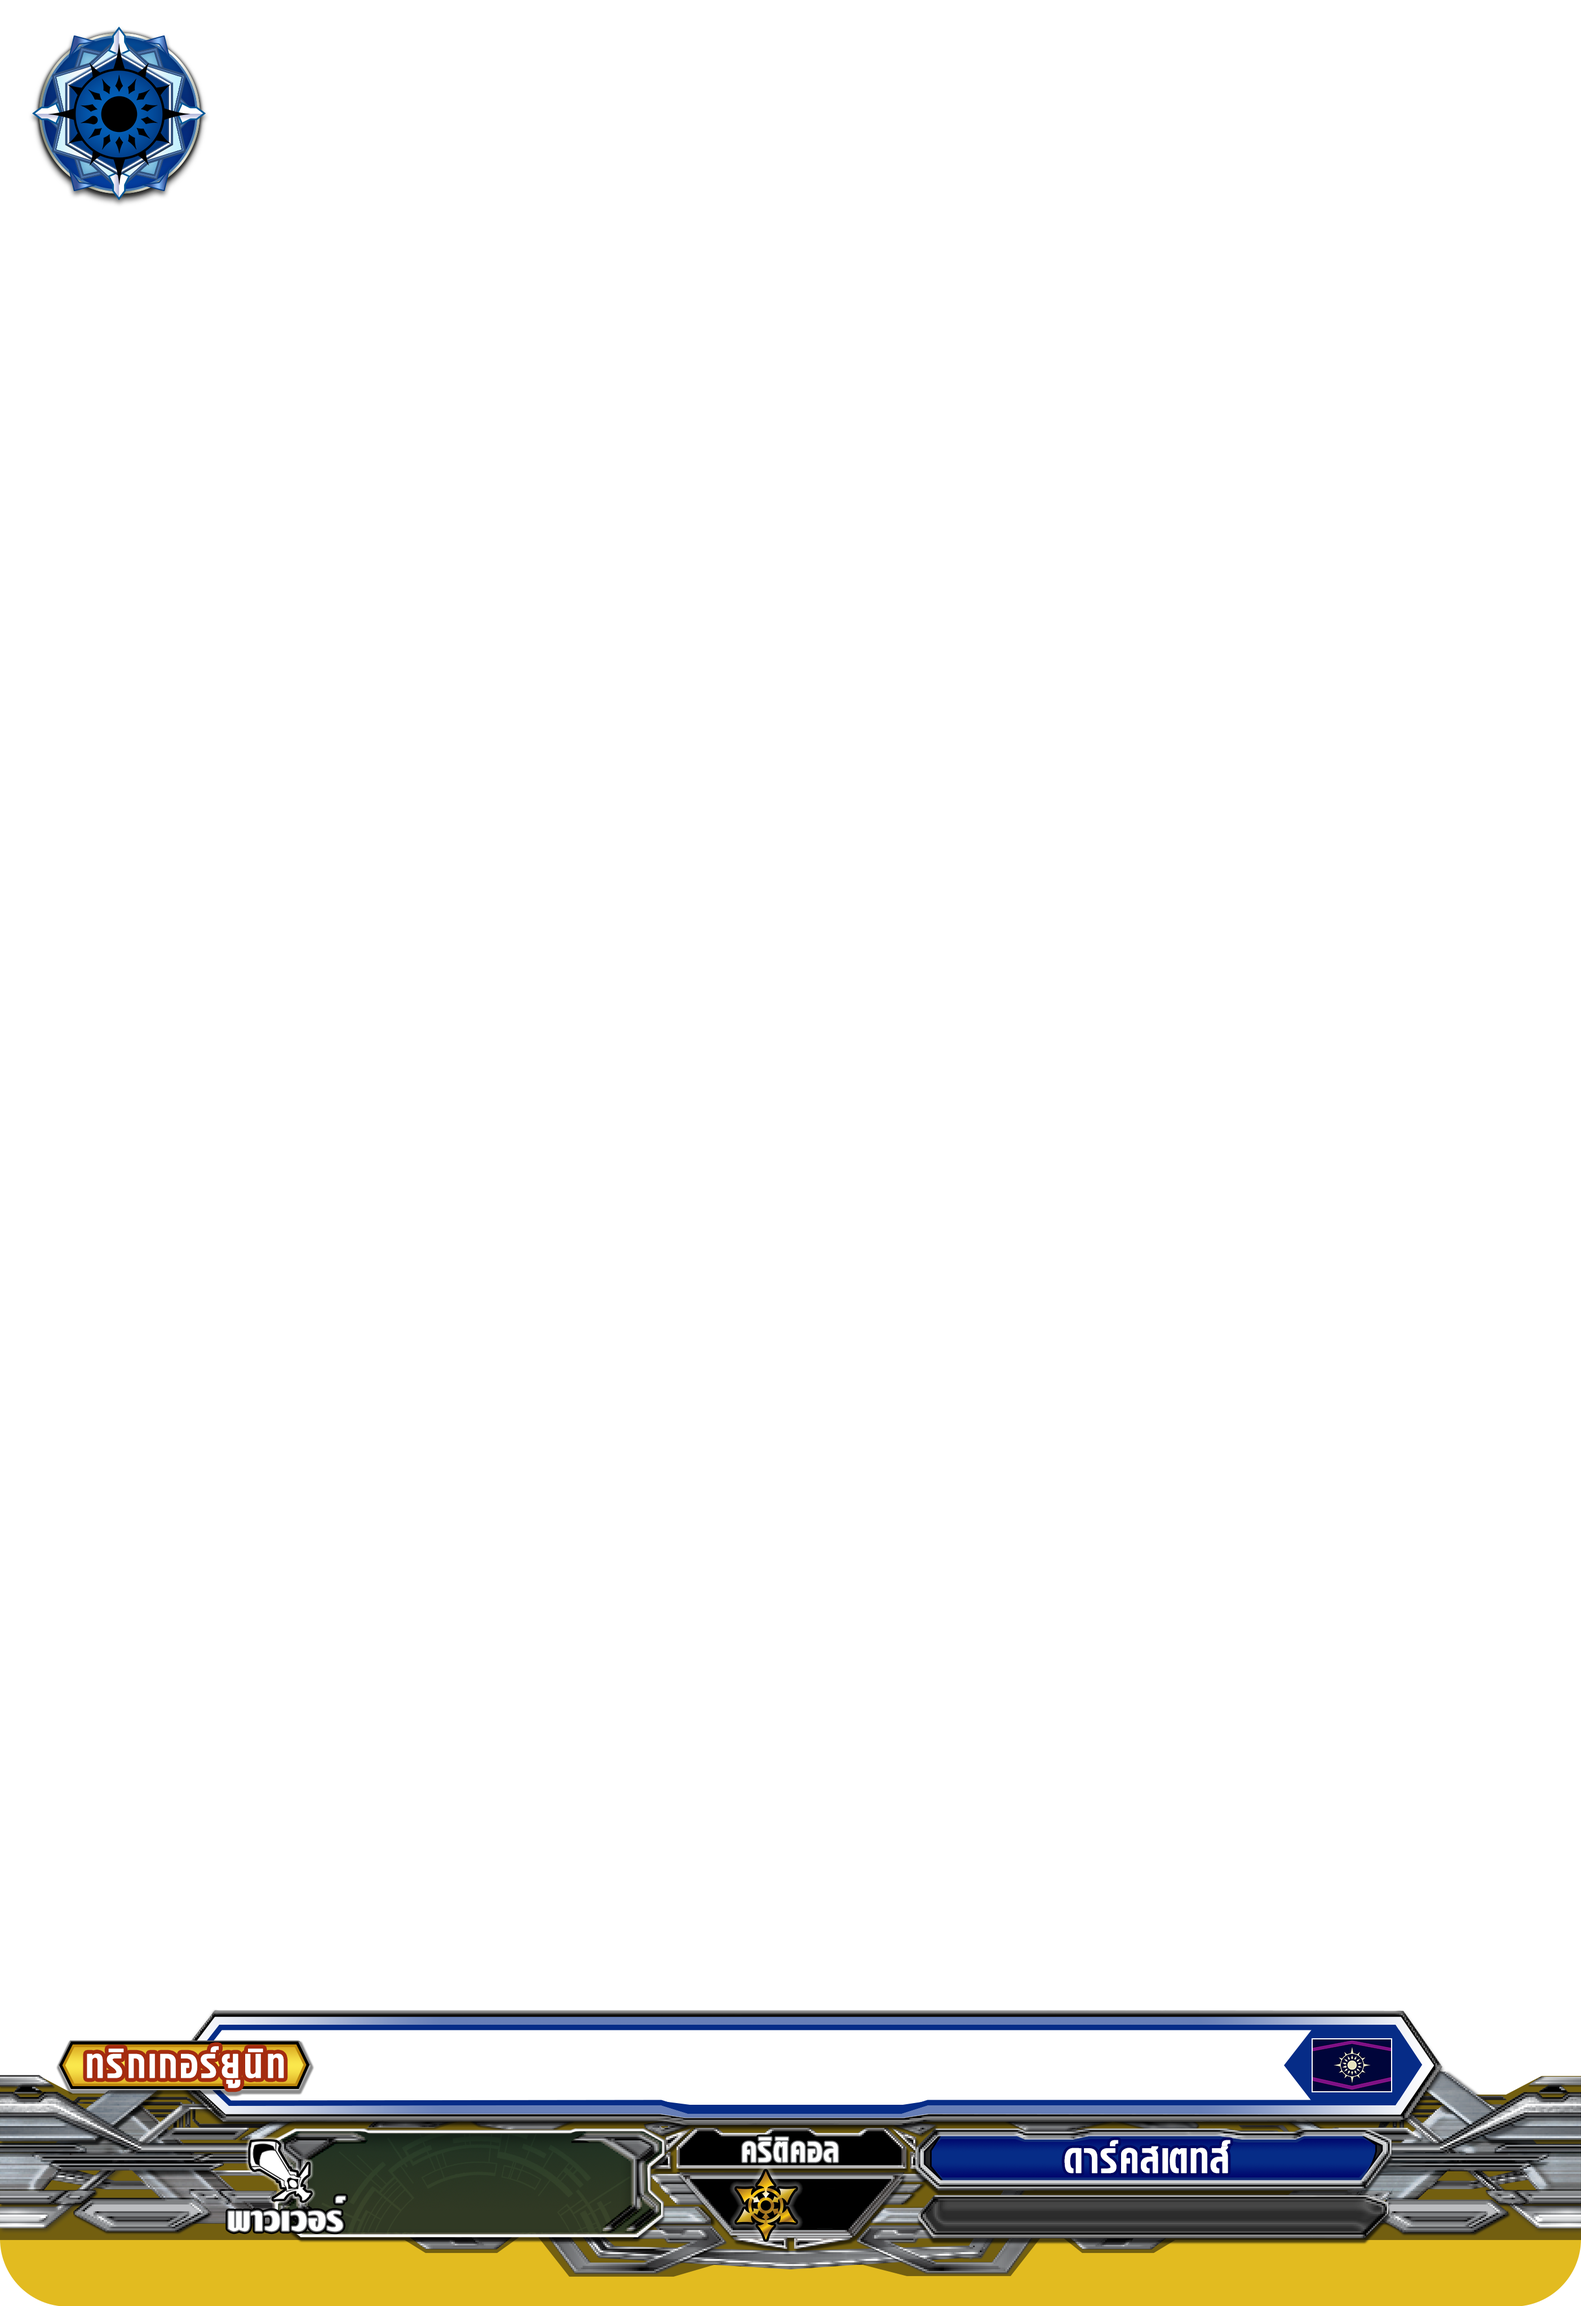
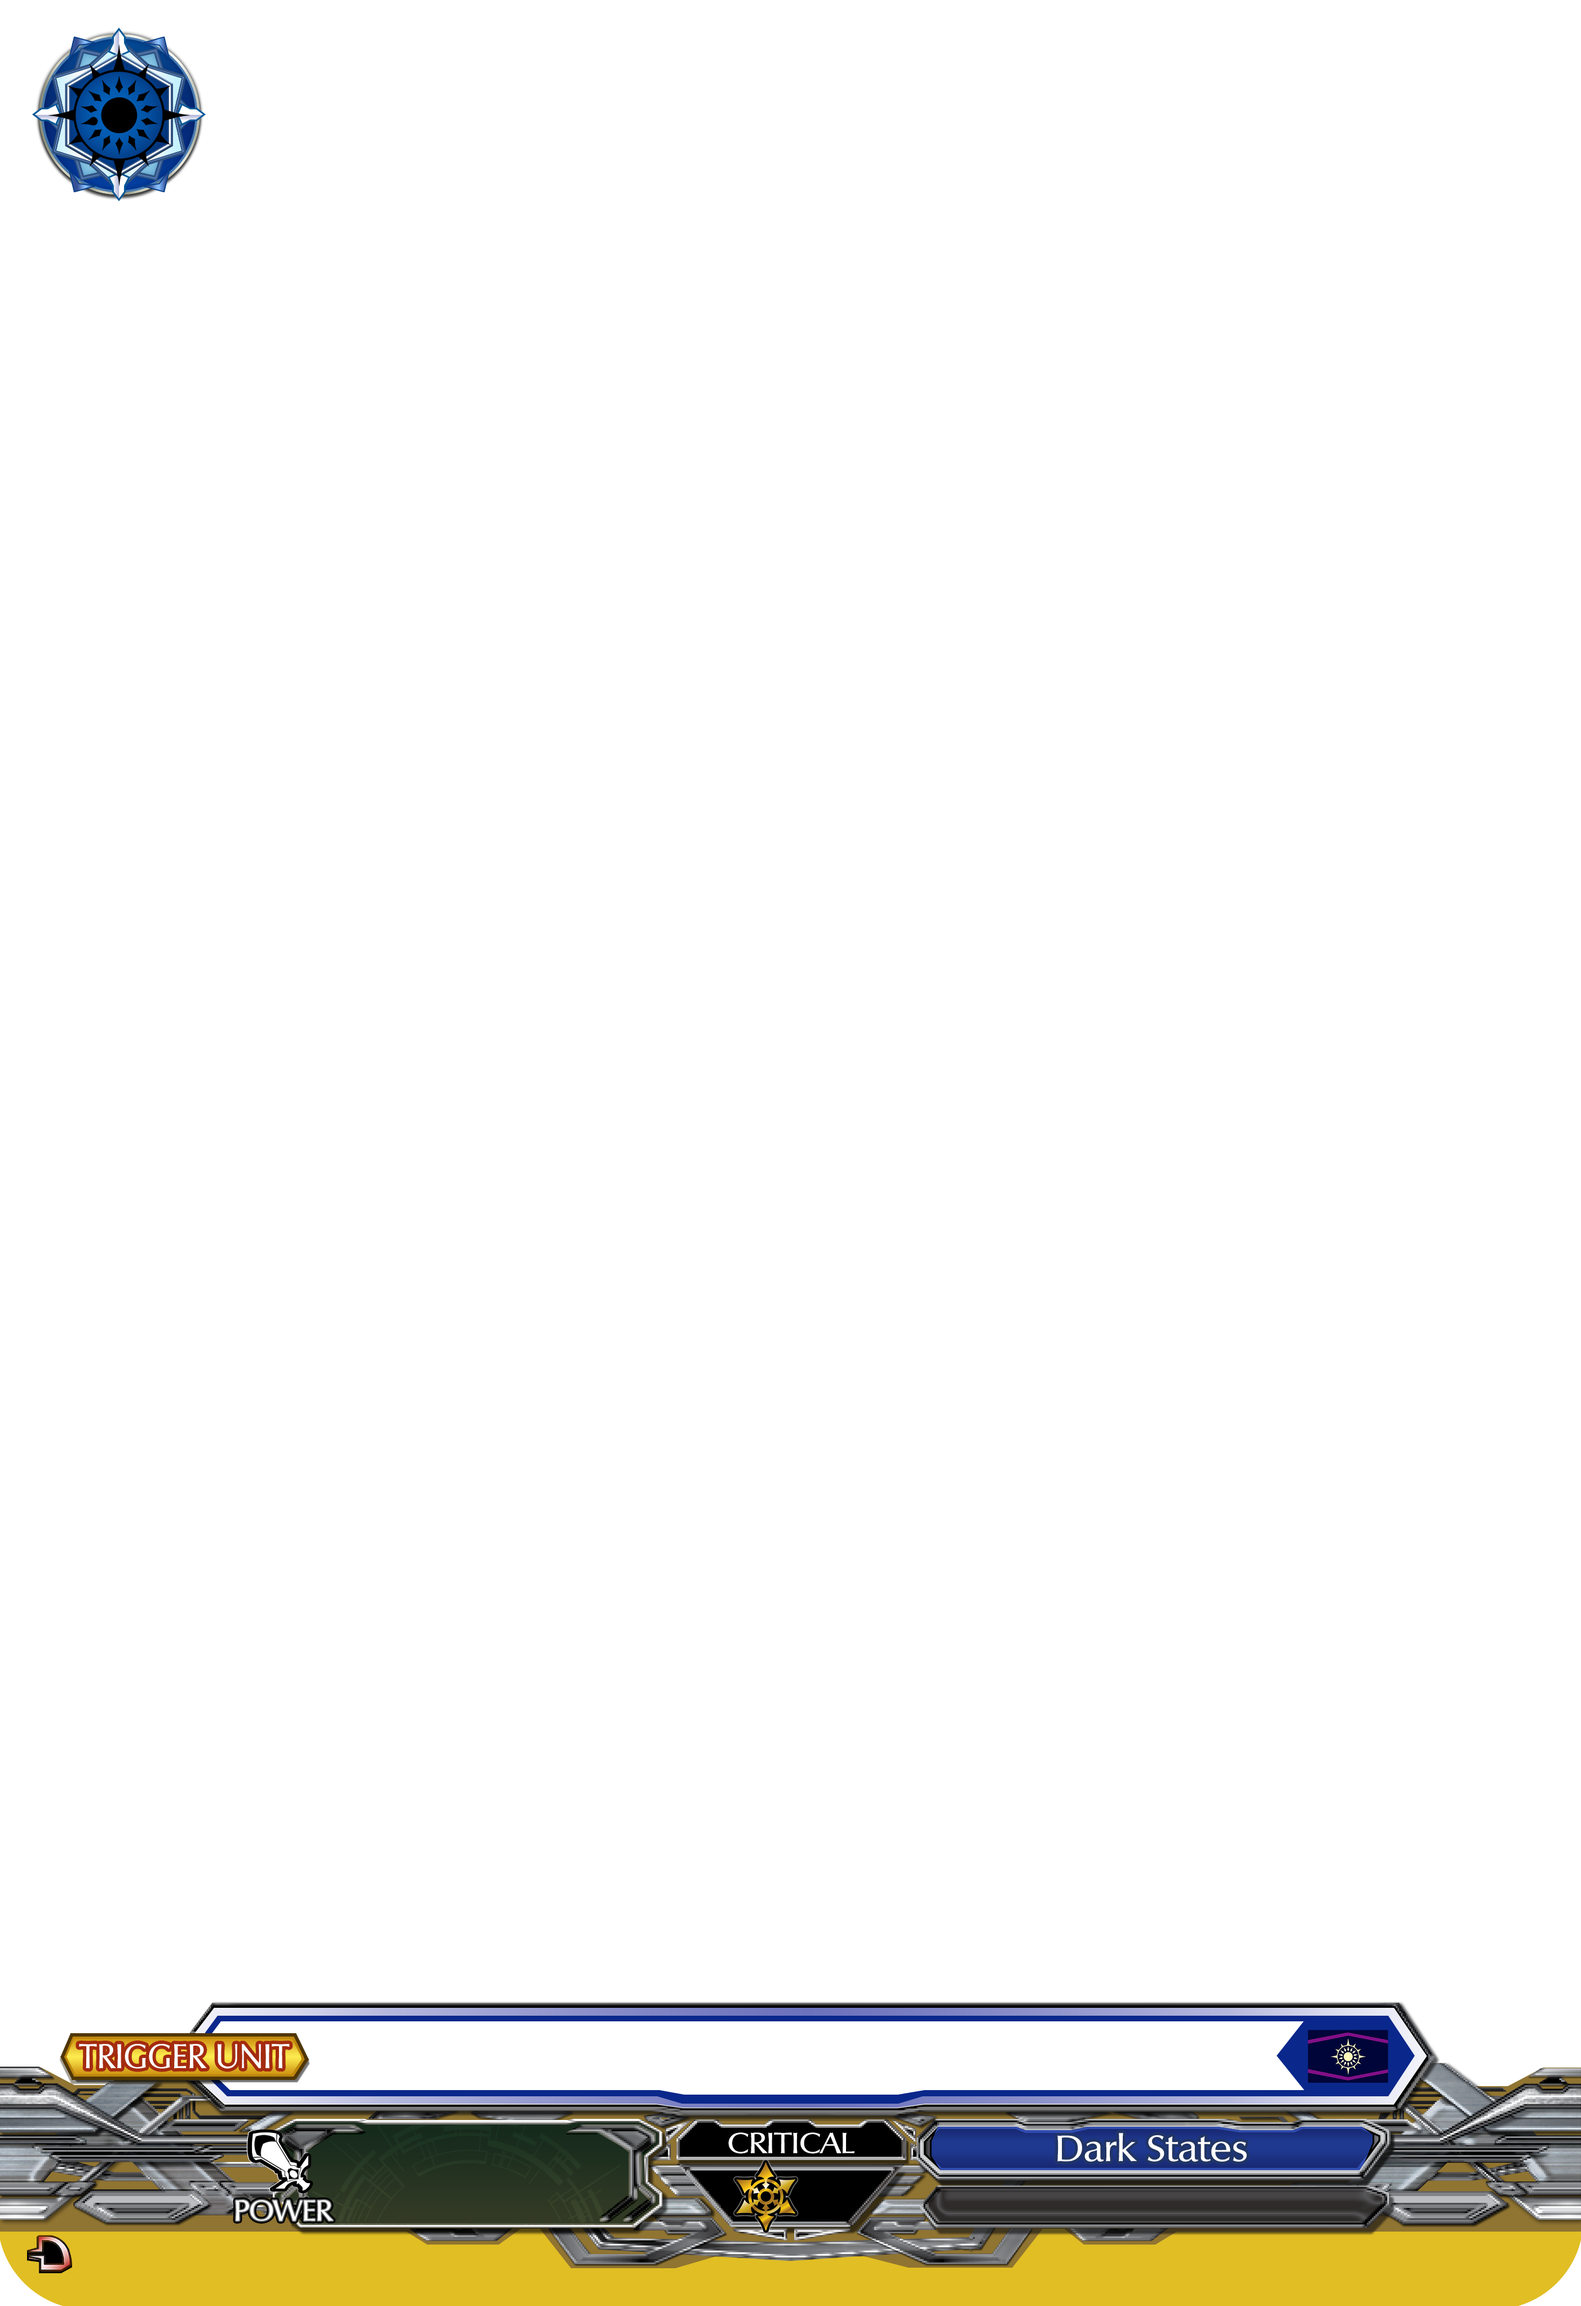
Trigger Update

Changed region(s): [[0.0, 0.8692, 1.0, 1.0], [0.0, 0.0, 0.1241, 0.0931]]

diff --git a/script/list.js b/script/list.js
@@ -7,6 +7,7 @@ window.addEventListener('DOMContentLoaded', function() {
   var trigger1 = document.getElementById('trg');
   var grade = document.getElementById('g');
   var grade1 = document.getElementById('g_');
+  var triggerImage = document.getElementById('trigger')
   var image0 = document.getElementById('si');
   var image1 = document.getElementById('gs'); 
   var image2 = document.getElementById('si1');
@@ -31,10 +32,13 @@ window.addEventListener('DOMContentLoaded', function() {
     if (select1 === "tu") {
       tri = "flex";
       tri1 = "none";
+      im = `assets/${trigger1.value}.png`
+      
     }
     else {
       tri = "none";
       tri1 = "flex";
+      im = "assets/none_.png"
     }
 
     image.src = src_;
@@ -42,7 +46,7 @@ window.addEventListener('DOMContentLoaded', function() {
     grade1.style.display = tri1;
     trigger.style.display = tri;
     trigger1.style.display = tri;
-    
+    triggerImage.src = im
   }
 });
 
@@ -55,6 +59,19 @@ window.addEventListener('DOMContentLoaded', function() {
   
   function update() {
     var select = cri.value;
+    var src_ = "assets/" + select + ".png";
+    image.src = src_;
+  }
+});
+
+window.addEventListener('DOMContentLoaded', function() {
+  var trg = document.getElementById('trg');
+  var image = document.getElementById('trigger');
+  
+  trg.addEventListener('change', update);
+  
+  function update() {
+    var select = trg.value;
     var src_ = "assets/" + select + ".png";
     image.src = src_;
   }

diff --git a/index.html b/index.html
@@ -28,6 +28,7 @@
         <img class="si" id=si src="assets/bts.png">
         <img class="crs" id=crs src="assets/c_1_.png">
         <img class="sh" id=sh src="assets/none_.png">
+        <img class="trigger" id="trigger" src="assets/none_.png">
 
         <div class="nub" id="nub">
           <div class="se_" id="se_">
@@ -65,12 +66,11 @@
 
           <label class="trg_" id="trg_" for="cts">Trigger</label>
           <select class="trg" id="trg">
-            <option value="#">*Not for now</option>
-            <option value="ct">Critical</option>
-            <option value="dr">Draw</option>
-            <option value="fn">Front</option>
-            <option value="he">Heal</option>
-            <option value="ov">Over</option>
+            <option value="crit">Critical</option>
+            <option value="draw">Draw</option>
+            <option value="frony">Front</option>
+            <option value="heal">Heal</option>
+            <option value="over">Over</option>
           </select>
 
           <label for="ns">Nation</label>

diff --git a/style.css b/style.css
@@ -242,7 +242,8 @@ select,
 .crs,
 .gs,
 .si,
-.sh {
+.sh,
+.trigger {
   position: absolute;
   z-index: 4;
   display: flex;
